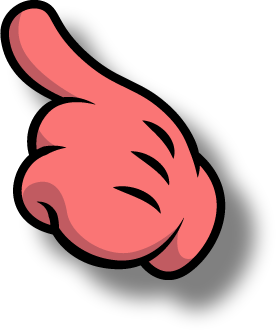
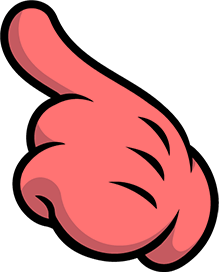
better animations, click

diff --git a/index.html b/index.html
@@ -16,20 +16,25 @@ body {
     cursor: none;
 }
 
+.cursor {
+    left: 50%;
+    top: 50%;
+    animation: cursor-rotation 2s infinite ease-in-out;
+    filter: drop-shadow(15px 15px 8px rgba(0, 0, 0, 0.3));
+    will-change: transform; /* without this hack, the cursor is not antialiased in chrome 🙄 */
+}
+
 .cursor-others {
     position: absolute;
     transform-origin: -3% -1%;
     transition: opacity 1s, left 50ms, top 50ms, transform 100ms linear;
-    animation: cursor-rotation 2s infinite ease-in-out;
     opacity: 0.9;
 }
 
 #cursor-self {
-    transform-origin: -3% -1%;
     position: absolute;
+    transform-origin: -3% -1%;
     z-index: 1000;
-    animation: cursor-rotation 2s infinite ease-in-out;
-    transform: scale(0.4);
 }
 
 @keyframes cursor-rotation {
@@ -46,7 +51,7 @@ body {
 
 @keyframes cursor-drop-in {
     0% {
-        transform: scale(20);
+        transform: scale(20.0);
         opacity: 0;
     }
     100% {
@@ -55,13 +60,25 @@ body {
     }
 }
 
+@keyframes cursor-click {
+    from {
+        transform: scale(0.4);
+        translate: 0px;
+    }
+    to {
+        transform: scale(0.4) rotate(-20deg);
+        translate: -5px -5px;
+    }
+}
+
 </style>
 </head>
 <body>
-<img src="/static/cursor_self.png" id="cursor-self" alt="cursor">
+<img src="/static/cursor_self.png" id="cursor-self" alt="cursor" class="cursor">
 <script>
 (() => {
-// todo fix cursors not working if server restarts too quickly
+
+// setTimeout(function(){debugger;}, 5000)  // uncomment to freeze the screen for debugging
 
 // set body background color to random hue
 document.body.style.backgroundColor = `hsl(${Math.random() * 360}, 50%, 80%)`;
@@ -85,7 +102,18 @@ let lastReceived = {};
 let cursorCleanupInterval;
 let connecting = false;
 
-function addCursor(data) {
+function clickAnimation(cursor, data) {
+    cursor.onanimationend = (e) => {
+        if(e.animationName === 'cursor-click') {
+            cursor.style.animation = 'cursor-rotation 2s infinite ease-in-out';
+        }
+    };
+    if(data.click != 0) {
+        cursor.style.animation = 'cursor-click 100ms';
+    }
+}
+
+function setOtherCursor(data) {
     // Convert the scaled coordinates back to pixel coordinates
     const x = data.x * window.innerWidth;
     const y = data.y * window.innerHeight;
@@ -97,11 +125,11 @@ function addCursor(data) {
         const cursor = document.createElement('img');
         cursor.src = '/static/cursor_others.png';
         // apply the cursor-other class
-        cursor.classList.add('cursor-others');
-        cursor.style.filter = `hue-rotate(${Math.floor(Math.random() * 360)}deg)`;
+        cursor.classList.add('cursor', 'cursor-others');
+        cursor.style.filter = `hue-rotate(${Math.floor(Math.random() * 360)}deg),`;  // without this trailing comma drop shadow is gone?!
+
         // set zoom origin to the cursor position
         cursor.style.transformOrigin = `${data.x * 100}% ${data.y * 100}%`;
-
         // add the drop-in animation
         cursor.style.transform = 'scale(0.4)';
         cursor.style.animation = 'cursor-rotation 2s infinite ease-in-out, cursor-drop-in 300ms ease-in-out';
@@ -117,6 +145,7 @@ function addCursor(data) {
     cursor.style.left = x + 'px';
     cursor.style.top = y + 'px';
 
+    clickAnimation(cursor, data);
 }
 
 function registerWebsocketHandlers(ws) {
@@ -143,8 +172,6 @@ function registerWebsocketHandlers(ws) {
     }, pingIntervalTime -1);
 
     ws.onmessage = (event) => {
-        if(debug) console.debug('received message', event.data)
-
         // check if message is a ping
         if (event.data.startsWith('ping')) {
             console.info('Received ping');
@@ -160,7 +187,8 @@ function registerWebsocketHandlers(ws) {
         }
 
         if (data.clientId != clientId) { // Don't show our own cursor
-            addCursor(data);
+            if(debug) console.debug('received message', event.data)
+            setOtherCursor(data);
 
             // Update the last received time for this client
             lastReceived[data.clientId] = Date.now();
@@ -194,19 +222,12 @@ var cleanupRunning = false;
 
 var lastMouseCoords = {x: 0, y: 0};
 
-function sendMouseCoords(event, ws) {
-    cursorSelf.style.left = event.clientX + 'px';
-    cursorSelf.style.top = event.clientY + 'px';
-
-    const x = event.clientX / window.innerWidth;
-    const y = event.clientY / window.innerHeight;
-
-    if (x === lastMouseCoords.x && y === lastMouseCoords.y) return;
-
+function sendData(data, ws) {
     // send mouse move event to server
-    const msg = JSON.stringify({clientId, x, y});
-    if(debug) console.debug(`Sending mouse move event: ${msg}`);
+    const msg = JSON.stringify(data);
+    if(debug) console.debug(`Sending data: ${msg}`);
 
+    if(debug) console.log(msg);
     try {
         ws.send(msg);
     } catch (e) {
@@ -214,7 +235,34 @@ function sendMouseCoords(event, ws) {
     }
 }
 
+function handleMouseCoords(event, ws) {
+    cursorSelf.style.left = event.clientX + 'px';
+    cursorSelf.style.top = event.clientY + 'px';
+
+    const x = event.clientX / window.innerWidth;
+    const y = event.clientY / window.innerHeight;
+
+    if (x === lastMouseCoords.x && y === lastMouseCoords.y) return;
+    const click = 0;
+    sendData({clientId, x, y, click}, ws);
+}
+
+function handleMouseClick(event, ws) {
+    if(debug) console.log(event);
+    const x = event.clientX / window.innerWidth;
+    const y = event.clientY / window.innerHeight;
+    const click = 1;
+    const data = {clientId, x, y, click};
+    sendData(data, ws);
+
+    // animate the click
+    const cursor = document.getElementById('cursor-self');
+    clickAnimation(cursor, data);
+}
+
+// single global mousemove handler
 let mouseMoveHandler = null;
+let mouseClickHandler = null;
 
 // connect to the websocket
 function connect() {
@@ -230,14 +278,23 @@ function connect() {
 
     registerWebsocketHandlers(ws);
 
-   // clear last mousemove listener
+    // clear last mousemove listener
     if (mouseMoveHandler) {
         document.removeEventListener('mousemove', mouseMoveHandler, {passive: true,});
     }
 
+    // clear last mousemove listener
+    if (mouseClickHandler) {
+        document.removeEventListener('click', mouseClickHandler, {passive: true,});
+    }
+
     // add new mousemove listener
-    mouseMoveHandler = (event) => sendMouseCoords(event, ws);
+    mouseMoveHandler = (event) => handleMouseCoords(event, ws);
     document.addEventListener('mousemove', mouseMoveHandler, {passive: true,});
+
+    // add new mouseclick listener
+    mouseClickHandler = (event) => handleMouseClick(event, ws);
+    document.addEventListener('click', mouseClickHandler, {passive: true,});
 }
 
 function removeCursor(clientId) {

diff --git a/main.go b/main.go
@@ -58,10 +58,14 @@ func handleConnection(conn *websocket.Conn, pool *wsPool) {
 			ClientId int     `json:"clientId"`
 			X        float64 `json:"x"`
 			Y        float64 `json:"y"`
+			Click    int     `json:"click"`
 		}
 		if err := json.Unmarshal(message, &mouseData); err != nil {
 			log.Println("error unmarshalling message:", err)
 			continue
+		}
+		if mouseData.Click != 0 {
+			log.Println("mouseData:", mouseData)
 		}
 
 		// Handle the mouse event...
@@ -136,7 +140,8 @@ func main() {
 		}
 	}()
 
-	embedStatic := true
+	// embedStatic := true
+	embedStatic := false
 
 	if embedStatic { // serve the static files from the normal filesystem
 		fs := http.FS(static)
